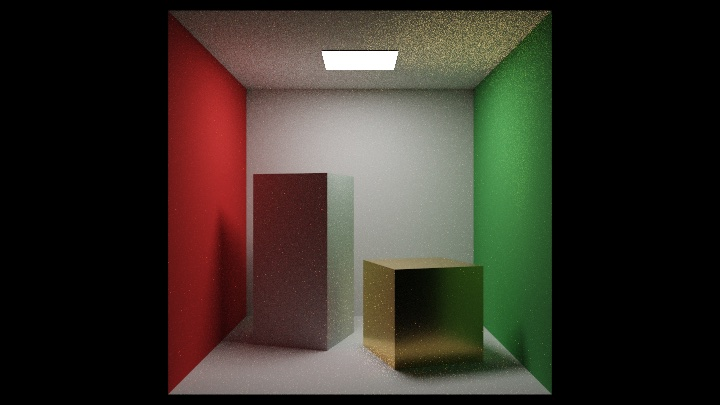
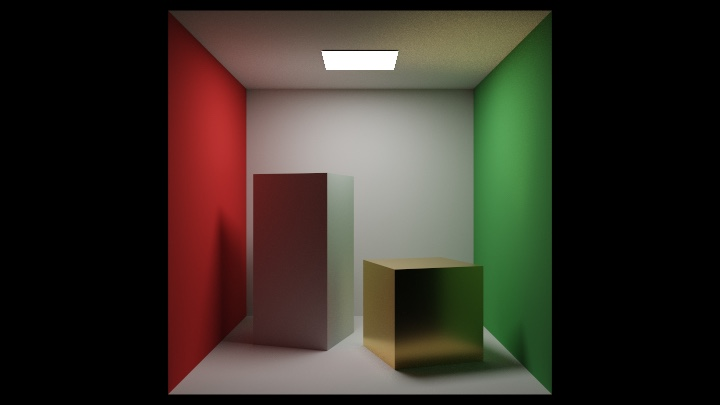
Replace README previews with 8192-spp Cornell, Studio, and Dragon.

Changed region(s): [[0.4889, 0.0296, 0.7639, 0.1778]]

diff --git a/README.md b/README.md
@@ -2,9 +2,9 @@
 
 WebGPU MIS path tracer.
 
-|![Cornell](./others/cornell.jpg)|![Studio](./others/studio.jpg)|![Glass](./others/glass.jpg)|
+|![Cornell](./others/cornell.jpg)|![Studio](./others/studio.jpg)|![Dragon](./others/classic.jpg)|
 |:-:|:-:|:-:|
-|Cornell|Studio|Glass|
+|Cornell|Studio|Dragon|
 
 ## Install
 
